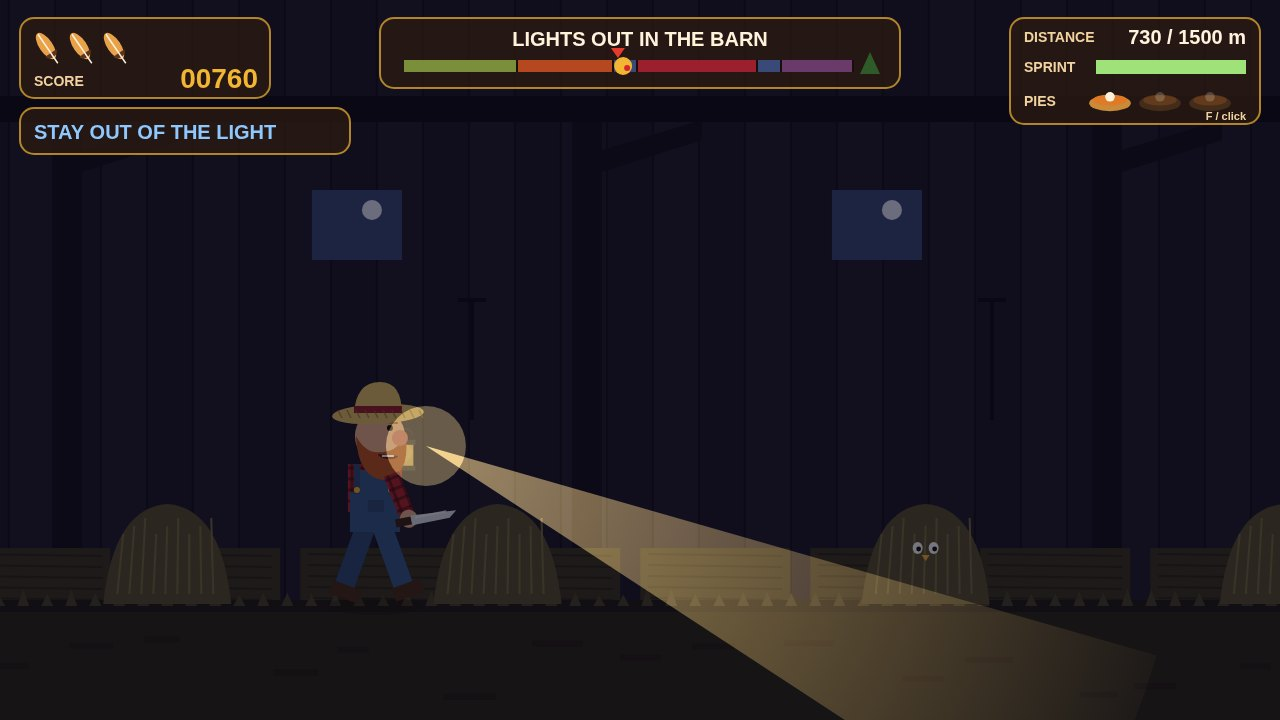
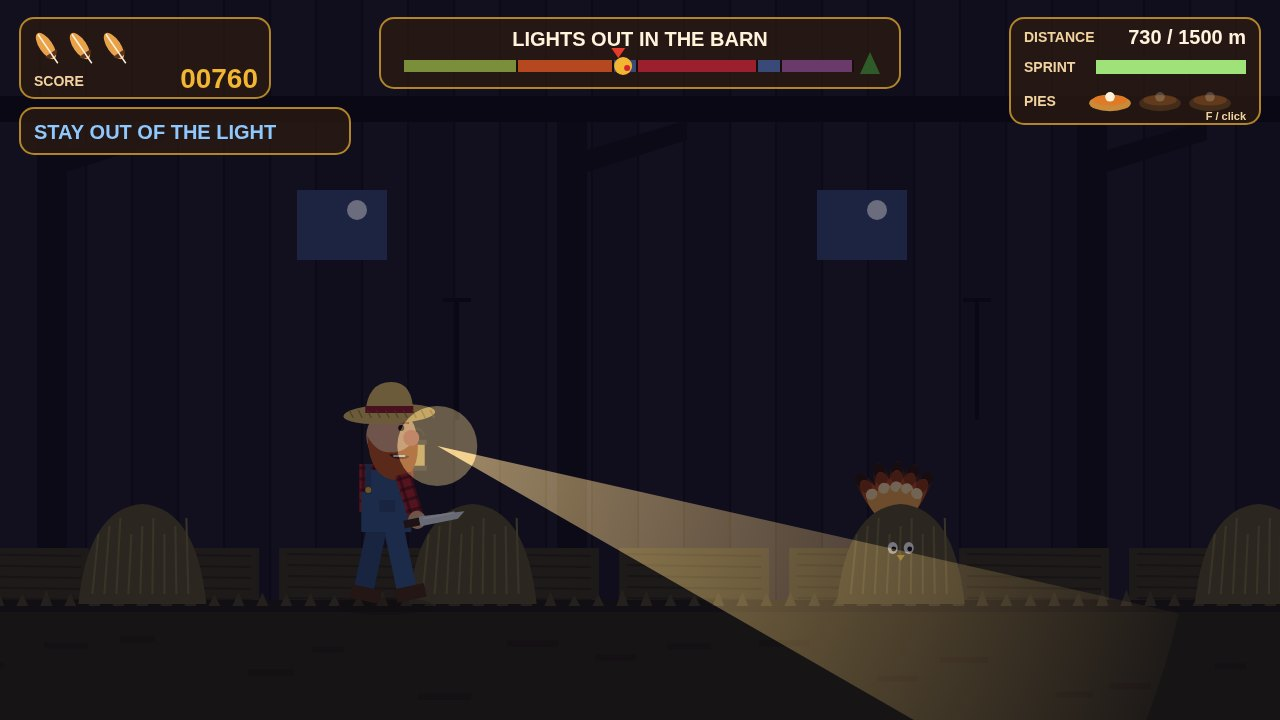
Criteria pass: kitchen leap cover, readable hiding, roaring oven flame, grounded shadow
- cover is now the game's own frame of Pepper mid-leap over a blasting oven flame with Farmer
  Baste winding up a carving knife behind her and the HUD on top; the title moves to shot 2
- hidden Pepper's tail tips poke out of her hay pile or cupboard, so hiding reads when small
- the oven flame is drawn as layered tongues of fire with a glow, within the hurtbox height
- Pepper's shadow stays on the floor while she jumps
- barn shot waits until the lantern rests on her hiding place

diff --git a/game/src/render.js b/game/src/render.js
@@ -8,7 +8,7 @@ import { runMode } from './run.js';
 import { beamGeometry } from './farmer.js';
 import { drawScenery, drawDarkness } from './art/scenery.js';
 import { drawHazard, drawThrownKnife, drawCorn, drawPie, drawFeatherPickup, drawHideSpot, drawDoor, drawGate } from './art/props.js';
-import { drawTurkey, drawPeekingEyes } from './art/turkeyArt.js';
+import { drawTurkey, drawPeekingEyes, drawHiddenTail } from './art/turkeyArt.js';
 import { drawFarmer } from './art/farmerArt.js';
 import { drawParticles, drawFloaters } from './effects.js';
 import { drawHud } from './hud.js';
@@ -48,6 +48,11 @@ export function drawRun(ctx, run, time) {
 
   for (const d of run.level.doors) if (onScreen(d.x, 110)) drawDoor(ctx, d, camX);
   if (onScreen(run.level.gateX, 600)) drawGate(ctx, run.level.gateX, camX);
+  const hideSpot = t.hidden ? run.level.hides.find((h) => t.x >= h.x && t.x <= h.x + h.w) : null;
+  if (hideSpot) {
+    // tail tips quiver while the lantern is on her
+    drawHiddenTail(ctx, t.x - camX - 6, GROUND_Y - (hideSpot.type === 'cupboard' ? 112 : 78), run.hiddenBeamTime > 0 ? time : 0);
+  }
   for (const h of run.level.hides) {
     if (onScreen(h.x, h.w)) drawHideSpot(ctx, h, camX, searching && !t.hidden && t.x > h.x - 10 && t.x < h.x + h.w + 10);
   }
@@ -61,8 +66,7 @@ export function drawRun(ctx, run, time) {
   drawFarmer(ctx, f.x - camX, GROUND_Y, { phase: f.runPhase, mode: f.mode, t: f.t, alert: f.alert, glow: 0.8 + 0.2 * Math.sin(time * 10), facing: f.mode === 'search' && f.backTrack > 0 ? -1 : 1 });
 
   if (t.hidden) {
-    const spot = run.level.hides.find((h) => t.x >= h.x && t.x <= h.x + h.w);
-    drawPeekingEyes(ctx, t.x - camX, GROUND_Y - (spot?.type === 'cupboard' ? 74 : 56), Math.sin(time * 2.3) > 0.96);
+    drawPeekingEyes(ctx, t.x - camX, GROUND_Y - (hideSpot?.type === 'cupboard' ? 74 : 56), Math.sin(time * 2.3) > 0.96);
   } else if (!(run.outcome === 'caught' && run.endT > 0.2)) {
     drawTurkey(ctx, t.x - camX, t.y, {
       phase: t.runPhase,
@@ -72,6 +76,7 @@ export function drawRun(ctx, run, time) {
       flicker: t.invuln > 0 && Math.floor(time * 16) % 2 === 0,
       expression: turkeyExpression(run),
       squash: t.squash,
+      height: GROUND_Y - t.y,
     });
   }
   if (run.outcome === 'caught' && run.endT > 0.2) {
@@ -79,7 +84,7 @@ export function drawRun(ctx, run, time) {
     ctx.save();
     ctx.translate(f.x - camX + 40, GROUND_Y - 170);
     ctx.rotate(Math.PI + Math.sin(time * 6) * 0.15);
-    drawTurkey(ctx, 0, 0, { phase: time * 20, airborne: true, expression: 'scared' });
+    drawTurkey(ctx, 0, 0, { phase: time * 20, airborne: true, expression: 'scared', height: -1 });
     ctx.restore();
   }
 

diff --git a/game/src/art/turkeyArt.js b/game/src/art/turkeyArt.js
@@ -121,9 +121,10 @@ function drawHead(ctx, hx, hy, expression) {
   }
 }
 
-// opts: { phase, airborne, ducking, gliding, flicker, expression, scale }
+// opts: { phase, airborne, ducking, gliding, flicker, expression, scale, height }
+// `height` is how far she is above the floor: her shadow stays on the floor and shrinks as she rises.
 export function drawTurkey(ctx, x, y, opts = {}) {
-  const { phase = 0, airborne = false, ducking = false, gliding = false, flicker = false, expression = 'worried', scale = 1, squash = 0 } = opts;
+  const { phase = 0, airborne = false, ducking = false, gliding = false, flicker = false, expression = 'worried', scale = 1, squash = 0, height = 0 } = opts;
   if (flicker) return;
   ctx.save();
   ctx.translate(x, y);
@@ -132,10 +133,13 @@ export function drawTurkey(ctx, x, y, opts = {}) {
   ctx.translate(0, bob);
 
   // shadow
-  ctx.fillStyle = 'rgba(30,15,5,0.25)';
-  ctx.beginPath();
-  ctx.ellipse(0, -bob + 2, 30, 6, 0, 0, Math.PI * 2);
-  ctx.fill();
+  if (height >= 0) {
+    const fade = Math.max(0.35, 1 - height / 260);
+    ctx.fillStyle = `rgba(30,15,5,${0.25 * fade})`;
+    ctx.beginPath();
+    ctx.ellipse(0, -bob + 2 + height / scale, 30 * fade, 6 * fade, 0, 0, Math.PI * 2);
+    ctx.fill();
+  }
 
   if (ducking) ctx.scale(1.15, 0.62);
   drawTailFan(ctx, gliding ? 1.15 : ducking ? 0.7 : 1, phase * 0.5);
@@ -182,6 +186,30 @@ export function drawTurkey(ctx, x, y, opts = {}) {
 }
 
 // Just the eyes, peeking out of a hiding place.
+// Hidden, Pepper's tail still gives her away: the tips of her fan poke up out of the hay (or out
+// of the cupboard's top), drawn before the hiding spot so its front covers their roots.
+export function drawHiddenTail(ctx, x, rootY, quiver = 0) {
+  ctx.save();
+  ctx.translate(x, rootY);
+  for (const ring of TAIL_RINGS.slice(0, 3)) {
+    for (let i = 0; i < 5; i++) {
+      const a = -Math.PI / 2 + (i - 2) * 0.32 + Math.sin(quiver * 40 + i) * 0.05 * (quiver > 0 ? 1 : 0);
+      ctx.save();
+      ctx.rotate(a);
+      ctx.fillStyle = ring.color;
+      ctx.beginPath();
+      ctx.ellipse(ring.r * 0.62, 0, ring.r * 0.5, 9, 0, 0, Math.PI * 2);
+      ctx.fill();
+      ctx.fillStyle = ring.band;
+      ctx.beginPath();
+      ctx.ellipse(ring.r * 0.98, 0, ring.r * 0.13, 6, 0, 0, Math.PI * 2);
+      ctx.fill();
+      ctx.restore();
+    }
+  }
+  ctx.restore();
+}
+
 export function drawPeekingEyes(ctx, x, y, blink) {
   ctx.fillStyle = '#fff';
   for (const dx of [-8, 8]) {

diff --git a/game/src/art/props.js b/game/src/art/props.js
@@ -149,17 +149,36 @@ function oven(ctx, x, h, time) {
     ctx.globalAlpha = 1;
   }
   if (phase === 'blast' && k < 0.92) {
+    // a roaring jet out of the door: a warm glow, then red, orange and yellow tongues of flame
+    // that lick up to the height of the hurtbox (44 px) and a white-hot core along the floor
     const len = h.flameLen * Math.min(1, k * 6);
     const fx = x + h.w - 10;
-    const g = ctx.createLinearGradient(fx, 0, fx + len, 0);
-    g.addColorStop(0, '#fff3a0'); g.addColorStop(0.4, '#ff9a2a'); g.addColorStop(1, 'rgba(229,59,44,0.2)');
-    ctx.fillStyle = g;
-    ctx.beginPath();
-    ctx.moveTo(fx, G - 52);
-    for (let s = 0; s <= 10; s++) ctx.lineTo(fx + (len * s) / 10, G - 50 - Math.sin(time * 30 + s * 1.7) * 9 + s * 2);
-    ctx.lineTo(fx + len, G);
-    ctx.lineTo(fx, G);
-    ctx.fill();
+    const glow = ctx.createRadialGradient(fx + len * 0.4, G - 20, 10, fx + len * 0.4, G - 20, len * 0.8 + 40);
+    glow.addColorStop(0, 'rgba(255,170,60,0.45)'); glow.addColorStop(1, 'rgba(255,120,40,0)');
+    ctx.fillStyle = glow;
+    ctx.fillRect(fx - 40, G - 140, len + 120, 140);
+    const layers = [
+      { color: '#d9361f', top: 50, amp: 9 },
+      { color: '#ff8a1e', top: 38, amp: 7 },
+      { color: '#ffd23f', top: 24, amp: 5 },
+      { color: '#fff6c8', top: 11, amp: 3 },
+    ];
+    layers.forEach((layer, li) => {
+      ctx.fillStyle = layer.color;
+      ctx.beginPath();
+      ctx.moveTo(fx, G);
+      const tongues = 7;
+      for (let s = 0; s <= tongues * 2; s++) {
+        const u = s / (tongues * 2);
+        const taper = 1 - u * 0.55;
+        const peak = s % 2 === 0 ? 1 : 0.55;
+        const y = G - (layer.top * peak + Math.sin(time * 28 + s * 1.9 + li) * layer.amp) * taper;
+        ctx.lineTo(fx + len * u * (1 - li * 0.06), y);
+      }
+      ctx.lineTo(fx + len * (1 - li * 0.06), G);
+      ctx.closePath();
+      ctx.fill();
+    });
   }
   // a warning patch on the floor where the flame will reach
   if (phase !== 'cool') {

diff --git a/game/src/shots.js b/game/src/shots.js
@@ -5,6 +5,7 @@
 import { createRun, updateRun } from './run.js';
 import { autopilotControls } from './autopilot.js';
 import { hazardHitboxes } from './hazards.js';
+import { GROUND_Y } from './config.js';
 
 const DT = 1 / 120;
 
@@ -27,13 +28,25 @@ const SCENES = {
   },
   barn: (seed) => {
     const run = createRun(seed, { startMeters: 690 });
-    play(run, 40, (r) => r.turkey.hidden && r.hiddenBeamTime > 0.05 && r.farmer.x > r.camX - 30 && r.fx.banners.length === 0);
+    play(run, 40, (r) => r.turkey.hidden && r.hiddenBeamTime > 0.3 && r.farmer.x > r.camX - 30 && r.fx.banners.length === 0);
     return run;
   },
   kitchen: (seed) => {
     const run = createRun(seed, { startMeters: 800 });
     play(run, 3);
     play(run, 40, (r) => r.stage.id === 'kitchen' && r.level.hazards.some((h) => h.type === 'oven' && hazardHitboxes(h).length && hazardHitboxes(h)[0].w > 90 && onScreen(r, h.x + h.w + 100) && h.x > r.turkey.x - 200) && r.farmer.x > r.camX - 20);
+    return run;
+  },
+  // Pepper in mid-leap over a blasting oven flame, the knife rack ahead, Farmer Baste behind.
+  leap: (seed) => {
+    const run = createRun(seed, { startMeters: 800 });
+    play(run, 40, (r) => {
+      const t = r.turkey;
+      if (r.stage.id !== 'kitchen') return false;
+      const oven = r.level.hazards.find((h) => h.type === 'oven' && hazardHitboxes(h).length && hazardHitboxes(h)[0].w > 100 && onScreen(r, h.x) && onScreen(r, h.x + h.w + 140));
+      const rack = r.level.hazards.find((h) => h.type === 'knifeRack' && onScreen(r, h.x) && onScreen(r, h.x + h.w));
+      return oven && rack && t.y < GROUND_Y - 90 && t.x > oven.x + oven.w - 20 && t.x < oven.x + oven.w + 150 && r.farmer.x > r.camX + 10;
+    });
     return run;
   },
   caught: (seed) => {

diff --git a/game/src/screens.js b/game/src/screens.js
@@ -84,7 +84,7 @@ export function drawTitle(ctx, time, mouse, best) {
   ctx.fillRect(-80, -2, 60, 4);
   drawKnife(ctx, 56);
   ctx.restore();
-  drawTurkey(ctx, 780, GROUND_Y - 30 - hop, { phase: time * 14, airborne: true, scale: 1.9, expression: 'scared', gliding: hop > 30 });
+  drawTurkey(ctx, 780, GROUND_Y - 30 - hop, { phase: time * 14, airborne: true, scale: 1.9, expression: 'scared', gliding: hop > 30, height: 30 + hop });
 
   logo(ctx, 640, 150, time);
   ctx.font = `800 26px ${FONT}`;
@@ -195,7 +195,7 @@ function freedomScene(ctx, x, y, w, h, time) {
   ctx.fillStyle = '#e9c46a';
   ctx.beginPath(); ctx.ellipse(x + 150 + Math.sin(time * 2) * 4, y + h - 24, 14, 5, Math.sin(time * 3) * 0.3, 0, Math.PI * 2); ctx.fill();
   const hop = Math.abs(Math.sin(time * 4)) * 16;
-  drawTurkey(ctx, x + w * 0.58, y + h - 50 - hop, { phase: time * 6, expression: 'happy', scale: 1.7, gliding: true, airborne: hop > 2 });
+  drawTurkey(ctx, x + w * 0.58, y + h - 50 - hop, { phase: time * 6, expression: 'happy', scale: 1.7, gliding: true, airborne: hop > 2, height: hop });
   closeFrame(ctx, x, y, w, h);
 }
 

diff --git a/README.md b/README.md
@@ -9,7 +9,7 @@
 farmhouse kitchen and the pantry to the freedom of the woods. Dodge his thrown carving knives, leap the
 oven flames, duck the barn lanterns, and hide when the lights go out.
 
-![Title screen](screenshots/1-title.jpg)
+![Pepper leaps an oven flame in the kitchen](screenshots/1-kitchen-leap.jpg)
 
 ## Play
 
@@ -45,7 +45,7 @@ Three feathers (lives), lucky feathers to find, corn to peck, close-shave and hi
 for every run and your best score kept in the browser. All art is drawn with canvas paths and all
 sound is synthesised with Web Audio in the game's own code.
 
-![Kitchen](screenshots/2-kitchen.jpg)
+![Title screen](screenshots/2-title.jpg)
 ![Barn search](screenshots/3-barn-search.jpg)
 ![Escaped](screenshots/4-escaped.jpg)
 
@@ -55,7 +55,7 @@ sound is synthesised with Web Audio in the game's own code.
 `hazards.js`, `level.js` (course spawner), `stages.js`, `config.js` (all tuning), `render.js`, `hud.js`,
 `screens.js`, `effects.js`, `audio.js`, `input.js`, `save.js`, `rng.js`, `art/` (turkey, farmer,
 scenery, props), plus `autopilot.js` and `shots.js`, which play real seeded runs to the moments in
-the screenshots (`?shot=title|kitchen|barn|caught|escaped&seed=N`).
+the screenshots (`?shot=title|leap|kitchen|barn|caught|escaped&seed=N`).
 
 `main.ts` hands the entry in: it copies `game/` and `screenshots/` to `/output` and writes
 `dossier.json` with the kit's unchanged `vendor/makefun-game.ts`.
